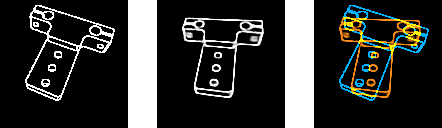
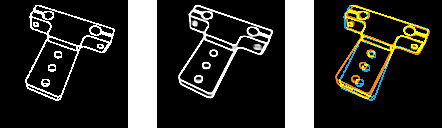
3D models

Changed region(s): [[0.7353, 0.0312, 0.9706, 0.7812], [0.3824, 0.0312, 0.6176, 0.7812]]

diff --git a/utils.py b/utils.py
@@ -105,7 +105,7 @@ def overlap_batch(im1,im2):
     if np.max(im2)>1:
         im2 = im2/255.
 
-    new_im = np.zeros((128*8,128*8*3,3))
+    new_im = np.zeros((128*8,128*8*3+128,4))
 
     for i in range(64):
 
@@ -120,12 +120,15 @@ def overlap_batch(im1,im2):
         new_im[m*128:(m+1)*128,n*128:(n+1)*128,0] = im_a*255
         new_im[m*128:(m+1)*128,n*128:(n+1)*128,1] = im_a*255
         new_im[m*128:(m+1)*128,n*128:(n+1)*128,2] = im_a*255
+        new_im[m*128:(m+1)*128,n*128:(n+1)*128,3] = 255
 
-        new_im[m*128:(m+1)*128,128*8+n*128:128*8+(n+1)*128,0] = im_b*255
-        new_im[m*128:(m+1)*128,128*8+n*128:128*8+(n+1)*128,1] = im_b*255
-        new_im[m*128:(m+1)*128,128*8+n*128:128*8+(n+1)*128,2] = im_b*255
+        new_im[m*128:(m+1)*128,64+128*8+n*128:64+128*8+(n+1)*128,0] = im_b*255
+        new_im[m*128:(m+1)*128,64+128*8+n*128:64+128*8+(n+1)*128,1] = im_b*255
+        new_im[m*128:(m+1)*128,64+128*8+n*128:64+128*8+(n+1)*128,2] = im_b*255
+        new_im[m*128:(m+1)*128,64+128*8+n*128:64+128*8+(n+1)*128,3] = 255
 
-        new_im[m*128:(m+1)*128,128*16+n*128:128*16+(n+1)*128,:] = im_c
+        new_im[m*128:(m+1)*128,128+128*16+n*128:128+128*16+(n+1)*128,:3] = im_c
+        new_im[m*128:(m+1)*128,128+128*16+n*128:128+128*16+(n+1)*128,3] = 255
 
     
     yellow_rgb = (0, 1., 1.) #bgr
@@ -139,18 +142,18 @@ def overlap_batch(im1,im2):
     
 
     for i in range(1,8):
-        new_im[i*128,:128*8,:] = [255*blue_rgb[0], 255*blue_rgb[1],255*blue_rgb[2]]
-        new_im[:,i*128,:] = [255*blue_rgb[0], 255*blue_rgb[1],255*blue_rgb[2]]
+        new_im[i*128,:128*8,:3] = [255*blue_rgb[0], 255*blue_rgb[1],255*blue_rgb[2]]
+        new_im[:,i*128,:3] = [255*blue_rgb[0], 255*blue_rgb[1],255*blue_rgb[2]]
 
     for i in range(1,8):
-        new_im[i*128,128*8:128*16,:] = [255*orange_rgb[0], 255*orange_rgb[1],255*orange_rgb[2]]
-        new_im[:,128*8+i*128,:] = [255*orange_rgb[0], 255*orange_rgb[1],255*orange_rgb[2]]
+        new_im[i*128,64+128*8:64+128*16,:3] = [255*orange_rgb[0], 255*orange_rgb[1],255*orange_rgb[2]]
+        new_im[:,64+128*8+i*128,:3] = [255*orange_rgb[0], 255*orange_rgb[1],255*orange_rgb[2]]
 
     for i in range(1,8):
-        new_im[i*128,128*16:128*24,:] = [255, 255, 255]
-        new_im[:,128*16+i*128,:] = [255, 255, 255]
+        new_im[i*128,128+128*16:128+128*24,:3] = [255, 255, 255]
+        new_im[:,128+128*16+i*128,:3] = [255, 255, 255]
 
-    new_im[:,128*8,:] = [255, 255, 255]
-    new_im[:,128*16,:] = [255, 255, 255]
+    # new_im[:,128*8,:] = [255, 255, 255]
+    # new_im[:,128*16,:] = [255, 255, 255]
 
     return new_im
